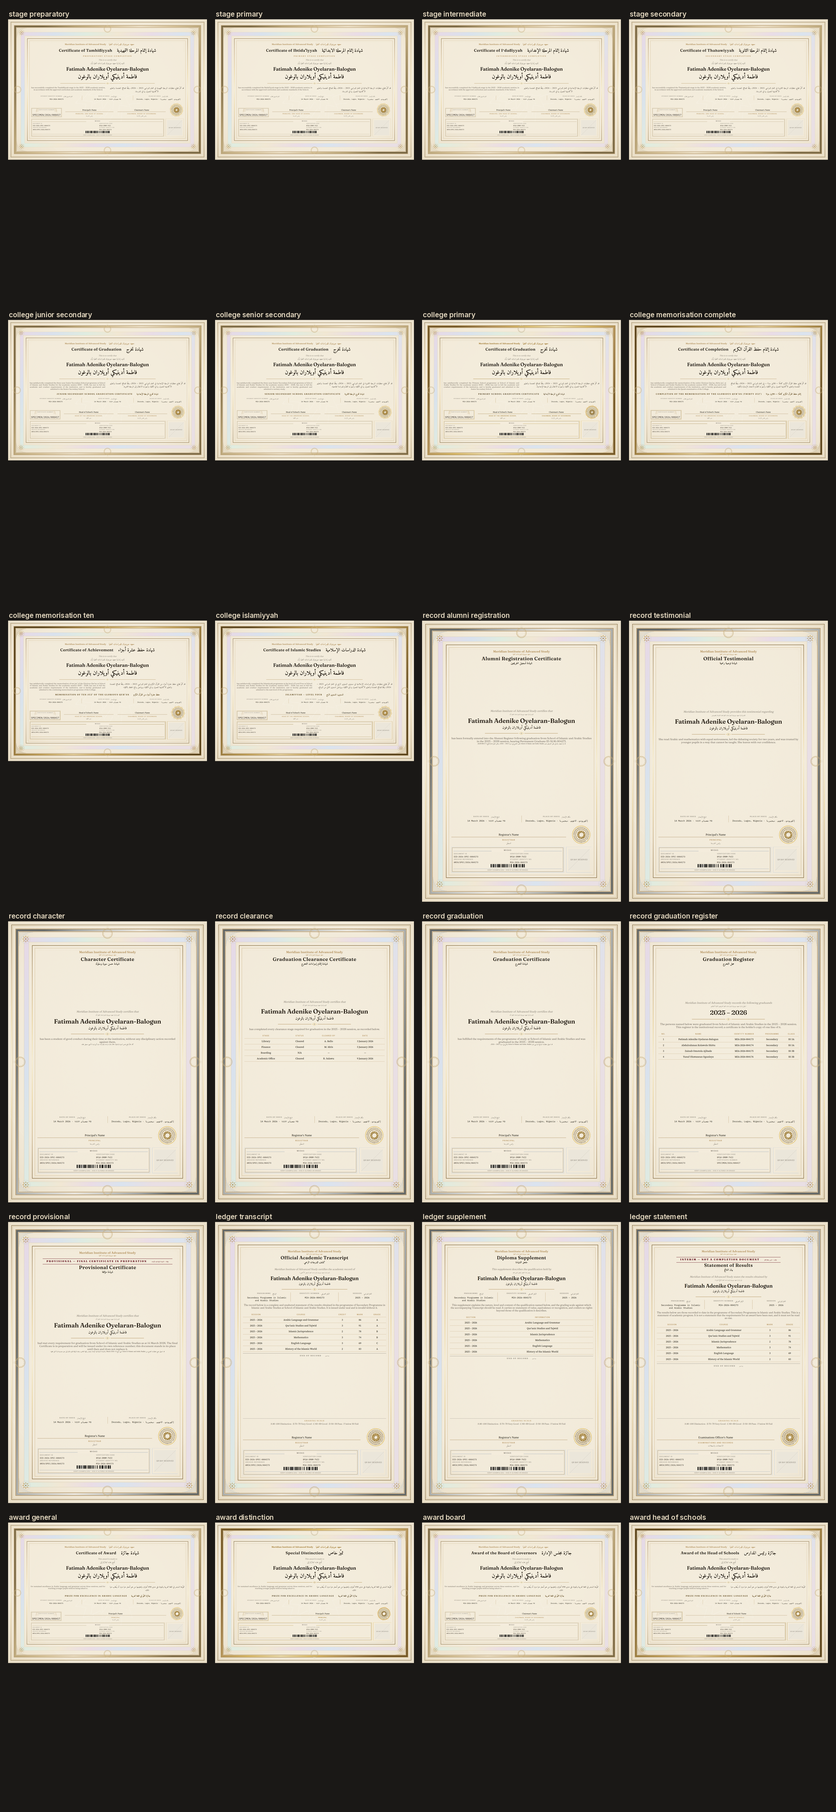
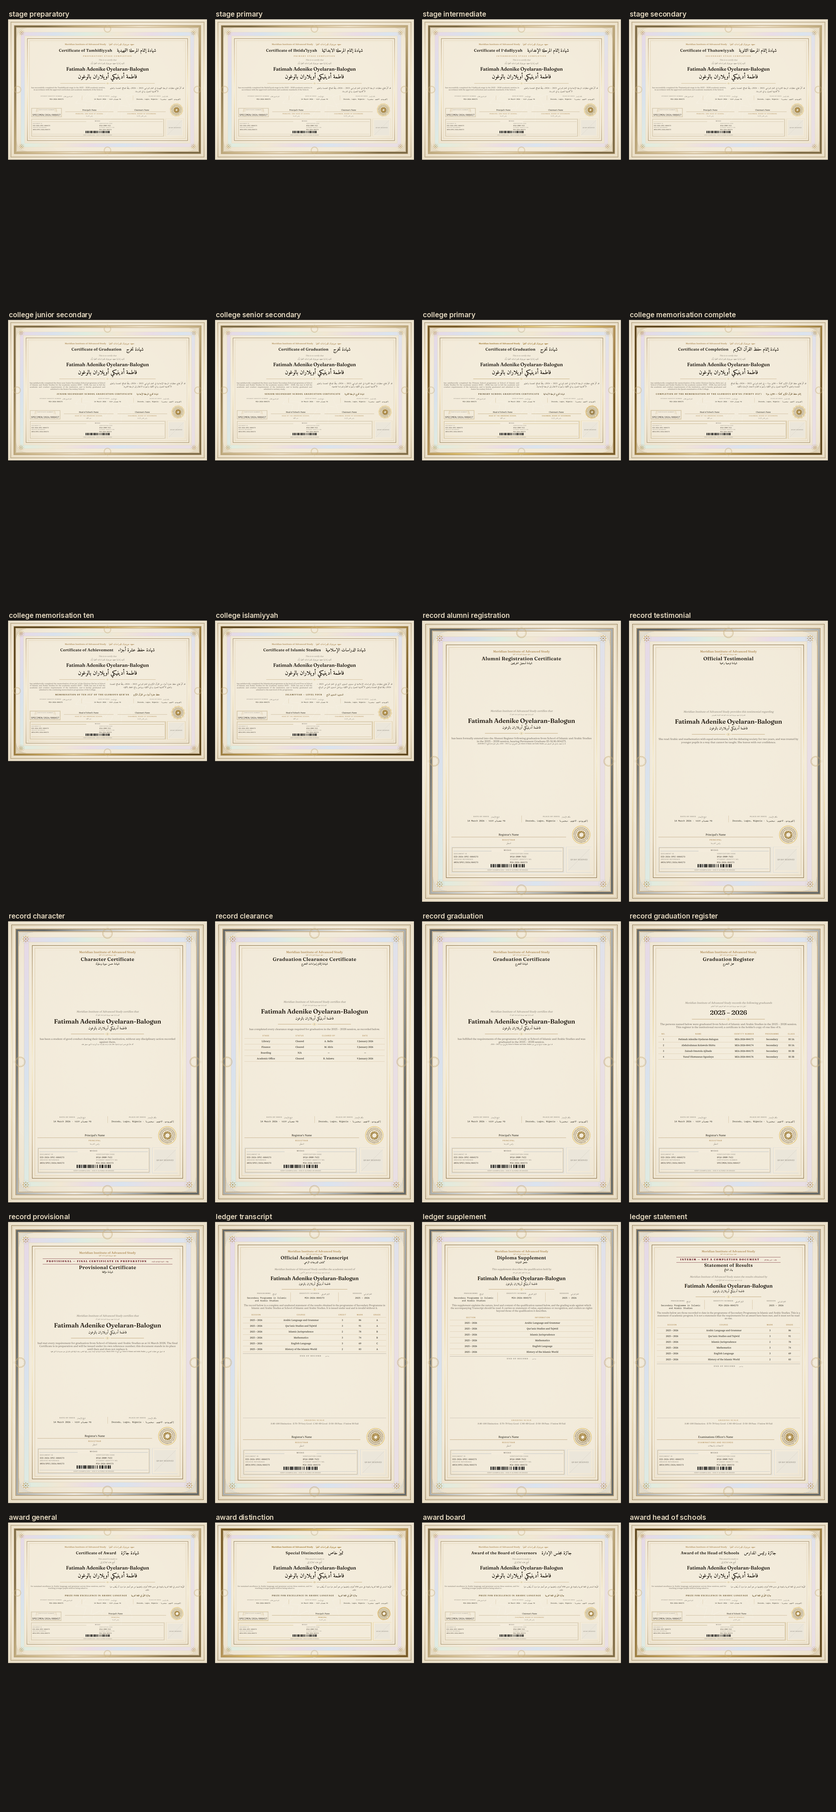
Look at what was built, and fix the five things looking found
Every composition had passed the machine audit. Four of them had never been
rendered and looked at, and looking found five defects the audit could not
see — plus one the audit could see and was not measuring.

The one the audit was not measuring: **horizontal overflow.** It compared
scrollHeight against clientHeight and the field box against the sheet, so a
portrait certificate whose bilingual title ran 90mm past the inner rule and
off the ceremonial field entirely reported zero. The column fitted; the row
inside it did not. Anything laid out as a row — a peer title, a two-column
citation, a particulars band — could walk sideways off the sheet without a
single number changing. Now measured, on HTML blocks only: walking into the
seal and the verification cartouche reported every sheet in the library as
40–75mm over, because SVG text legitimately exceeds its own viewBox.

What that found, and what looking found:

  1. --s never reached the stylesheet. Every fixed measure in the foot was
     written as calc(22mm * var(--s)) and the property was published on a
     div that no longer existed after a refactor, so the seal, the number
     cartouche and the signature blocks all fell back to the SVG default of
     300px — 79mm where 22 was intended — and the execution row overflowed
     on every sheet in the library.
  2. The foot did not grow with the sheet. Instruments have floors, not
     fixed sizes; left at 46 x 14mm an A3 sheet got an A4 cartouche marooned
[…]

diff --git a/apps/edtechx-api/app/modules/documents/library_sheet.py b/apps/edtechx-api/app/modules/documents/library_sheet.py
@@ -446,6 +446,15 @@ def _ceremonial(filled: Filled, *, architecture: Architecture, scheme, ink: str,
     template = filled.template
     measure = field.w
     mark = ""
+    # A portrait ceremonial sheet is a narrower measure, and a narrower measure
+    # wants smaller type: the same citation that runs in two columns across a
+    # landscape field stacks into two full-width paragraphs here, and at the
+    # landscape optical sizes that stack ran 11.6mm to 15.9mm past the field on
+    # every college sheet and 5.8mm on every award. This is not a fudge factor —
+    # it is the type size a 145mm measure asks for against a 228mm one, and the
+    # peak still sits at 8.5mm, twice its floor.
+    if field.h > field.w:
+        scale *= 0.93
     # Optical sizes, not chosen sizes. The field a full heritage border leaves
     # on an A4 landscape sheet is 221 × 134mm, and the composition below is
     # solved against that height rather than against a look — which is why the
@@ -455,8 +464,13 @@ def _ceremonial(filled: Filled, *, architecture: Architecture, scheme, ink: str,
         _lockup(architecture, filled, base=3.3 * scale, mark=mark),
         _banner(architecture, filled, scale=scale),
         '<div class="spacer"></div>',
+        # Inline only where there is width for it. Two long peer titles side
+        # by side need a landscape measure; on a portrait sheet the pair ran
+        # 90mm past the inner rule and off the ceremonial field entirely — the
+        # same rule that makes the citation run in columns on one and stack on
+        # the other, which the title had been exempt from for no reason.
         _runs(architecture, filled, template.title, cls="ttl", base=5.8 * scale,
-              inline=architecture.mode == "peer"),
+              inline=architecture.mode == "peer" and field.w > field.h),
         # The subtitle is the stage gloss on a stage sheet. A college sheet's
         # award is set once, in the conferred-award register below, and setting
         # it here as well cost 7.8mm of a 132mm field to say the same words
@@ -514,16 +528,21 @@ def _ceremonial(filled: Filled, *, architecture: Architecture, scheme, ink: str,
     # beneath it with the seal. This is the same rule that makes the citation
     # run in columns on one and stack on the other, applied to the foot.
     tall = field.h > field.w
+    # The instruments have *floors*, not fixed sizes. Left at 46 x 14mm an A3
+    # sheet gets an A4 cartouche marooned in the corner of a much larger field
+    # — which is what the first A3 proof showed, and it is the difference
+    # between a document composed for A3 and one enlarged onto it. So they grow
+    # with the sheet and stop at the floor on the way down, never above it.
     number = _number(filled, template, scheme=scheme, ink=ink,
-                     width=46, height=14, paper=paper)
+                     width=46 * scale, height=14 * scale, paper=paper)
     signatures = (
         '<div class="sigrow">'
         + _signature_block(filled, template, scheme=scheme, ink=ink,
                            assets=assets)
         + "</div>"
     )
-    seal = _seal(filled, template, scheme=scheme, ink=ink, radius=9.2,
-                 device=device)
+    seal = _seal(filled, template, scheme=scheme, ink=ink,
+                 radius=max(9.2, 9.2 * scale), device=device)
     execution = (
         f'<div class="numrow">{number}</div>'
         f'<div class="exec">{signatures}{seal}</div>'
@@ -534,7 +553,7 @@ def _ceremonial(filled: Filled, *, architecture: Architecture, scheme, ink: str,
         execution
         + '<div class="vrow">'
         + _verification(filled, template, scheme=scheme, ink=ink, width=measure,
-                        height=27, paper=paper)
+                        height=max(27.0, 27.0 * scale), paper=paper)
         + "</div>"
     )
     return "".join(parts) + foot
@@ -552,8 +571,9 @@ def _administrative(filled: Filled, *, architecture: Architecture, scheme,
     parts = [
         _lockup(architecture, filled, base=3.2 * scale, mark=""),
         _banner(architecture, filled, scale=scale),
-        _runs(architecture, filled, template.title, cls="ttl ttl--rec", base=5.2 * scale,
-              inline=architecture.mode == "peer"),
+        _runs(architecture, filled, template.title, cls="ttl ttl--rec",
+              base=5.2 * scale,
+              inline=architecture.mode == "peer" and field.w > field.h),
         # Uneven on purpose. Two equal spacers put the block on the sheet's
         # geometric centre, which the eye reads as low — the same reason a
         # picture hung at true centre looks like it has slipped. 0.62 above and
@@ -587,12 +607,12 @@ def _administrative(filled: Filled, *, architecture: Architecture, scheme,
         + _signature_block(filled, template, scheme=scheme, ink=ink,
                            assets=assets)
         + "</div>"
-        + _seal(filled, template, scheme=scheme, ink=ink, radius=11.0,
-                device=device)
+        + _seal(filled, template, scheme=scheme, ink=ink,
+                radius=max(11.0, 11.0 * scale), device=device)
         + "</div>"
         + '<div class="vrow">'
         + _verification(filled, template, scheme=scheme, ink=ink, width=measure,
-                        height=27, paper=paper)
+                        height=max(27.0, 27.0 * scale), paper=paper)
         + "</div>"
     )
     return "".join(parts) + foot
@@ -645,8 +665,15 @@ def _overprint(filled: Filled, *, width: float, height: float, scheme) -> str:
         f'<text x="{width / 2:.1f}"'
         f' y="{height / 2 + (index - (len(lines) - 1) / 2) * size * 1.5:.1f}"'
         f' text-anchor="middle" font-size="{size * (0.62 if index else 1):.2f}"'
-        f' font-family="Inter, sans-serif" font-weight="700"'
-        f' letter-spacing="{size * 0.06:.2f}" fill="{alert}"'
+        # The Arabic line is a *second* line in a second script, and an SVG
+        # text element does not inherit a direction from anywhere. Without
+        # this the run laid out left to right and the words came out in
+        # reverse order — legible enough to look intentional, which is worse
+        # than illegible.
+        + (' direction="rtl" font-family="Amiri, serif"' if index
+           else ' font-family="Inter, sans-serif"')
+        + f' font-weight="700"'
+        f' letter-spacing="{0 if index else size * 0.06:.2f}" fill="{alert}"'
         f' fill-opacity="0.22">{_escape(line)}</text>'
         for index, line in enumerate(lines)
     )
@@ -692,7 +719,8 @@ def _ledger(filled: Filled, *, architecture: Architecture, scheme, ink: str,
         _lockup(architecture, filled, base=3.0 * scale, mark=""),
         _banner(architecture, filled, scale=scale),
         _runs(architecture, filled, template.title, cls="ttl ttl--rec",
-              base=4.8 * scale, inline=architecture.mode == "peer"),
+              base=4.8 * scale,
+              inline=architecture.mode == "peer" and field.w > field.h),
         '<div class="hairspace"></div>',
         _runs(architecture, filled, template.lede, cls="lede",
               base=2.7 * scale),
@@ -738,12 +766,12 @@ def _ledger(filled: Filled, *, architecture: Architecture, scheme, ink: str,
         + _signature_block(filled, template, scheme=scheme, ink=ink,
                            assets=assets)
         + "</div>"
-        + _seal(filled, template, scheme=scheme, ink=ink, radius=10.0,
-                device=device)
+        + _seal(filled, template, scheme=scheme, ink=ink,
+                radius=max(10.0, 10.0 * scale), device=device)
         + "</div>"
         + '<div class="vrow">'
         + _verification(filled, template, scheme=scheme, ink=ink, width=measure,
-                        height=27, paper=paper)
+                        height=max(27.0, 27.0 * scale), paper=paper)
         + "</div>"
     )
     return "".join(parts) + foot
@@ -770,8 +798,17 @@ html, body { margin: 0; padding: 0; background: #221F1B; }
 .lockup--stack .lk { flex: none; }
 .ttl { font-weight: 600; letter-spacing: 0.03em; flex: none; }
 .ttl--arabic { letter-spacing: 0; font-weight: 700; }
-.ttl-row { display: flex; gap: 7mm; align-items: baseline; justify-content: center;
-  flex: none; }
+/* An inline peer row wraps rather than pushes. Two titles set side by side
+   are 0.26mm too wide for an A4 landscape field with a long institution name,
+   and 8mm too wide on portrait — and a row that cannot wrap answers that by
+   walking off the ceremonial field. Wrapping degrades it to the stacked
+   arrangement, which is the same thing the composition does deliberately on a
+   tall sheet, rather than to a defect. */
+.ttl-row, .awd-row, .bnr-row, .endr-row {
+  display: flex; align-items: baseline; justify-content: center;
+  flex: none; flex-wrap: wrap; max-width: 100%; }
+.ttl-row > *, .awd-row > *, .bnr-row > *, .endr-row > * { min-width: 0; }
+.ttl-row { gap: 7mm; }
 .sub { font-family: 'Inter', sans-serif; text-transform: uppercase;
   letter-spacing: 0.30em; font-weight: 600; flex: none; margin-top: 1.6mm; }
 .lede { font-style: italic; flex: none; margin-top: 1.0mm; }
@@ -782,7 +819,8 @@ html, body { margin: 0; padding: 0; background: #221F1B; }
 .name--arabic { letter-spacing: 0; font-weight: 700; }
 .namerule { display: block; flex: none; height: 3mm; margin-top: 1.6mm; }
 .cite { display: flex; gap: 7mm; justify-content: center; align-items: flex-start;
-  width: 100%; flex: none; margin-top: 2.0mm; }
+  width: 100%; max-width: 100%; flex: none; margin-top: 2.0mm; }
+.cite > * { min-width: 0; }
 .cite .stmt { flex: 1 1 0; text-align: justify; text-align-last: center; }
 .cite--rec { display: block; }
 .cite--rec .stmt { text-align: center; }
@@ -790,21 +828,22 @@ html, body { margin: 0; padding: 0; background: #221F1B; }
 .awd { font-family: 'Inter', sans-serif; text-transform: uppercase;
   letter-spacing: 0.20em; font-weight: 600; }
 .awd--arabic { text-transform: none; letter-spacing: 0; font-family: 'Amiri', serif; }
-.awd-row { display: flex; gap: 6mm; align-items: baseline; justify-content: center; }
+.awd-row { gap: 6mm; }
 .band { display: flex; align-items: stretch; justify-content: space-between;
   width: 100%; flex: none; margin-top: 1.8mm; }
 .bcell { flex: 1 1 0; padding: 0 3mm; }
 .bdiv { flex: none; width: 0.2mm; align-self: stretch; }
 .bhead { display: flex; gap: 2mm; justify-content: center; }
-.bk { font-family: 'Inter', sans-serif; font-size: 1.7mm; letter-spacing: 0.16em;
-  text-transform: uppercase; font-weight: 600; }
+.bk { font-family: 'Inter', sans-serif; font-size: calc(1.7mm * var(--s));
+  letter-spacing: 0.16em; text-transform: uppercase; font-weight: 600; }
 .bk--arabic { text-transform: none; letter-spacing: 0; font-family: 'Amiri', serif;
-  font-size: 2.0mm; }
-.bval { font-family: 'IBM Plex Mono', monospace; font-size: 2.3mm;
+  font-size: calc(2.0mm * var(--s)); }
+.bval { font-family: 'IBM Plex Mono', monospace; font-size: calc(2.3mm * var(--s));
   margin-top: 0.6mm; }
 .rows { width: 100%; border-collapse: collapse; flex: none; margin-top: 3mm;
-  font-family: 'Source Serif 4', serif; font-size: 2.5mm; }
-.rows th { font-family: 'Inter', sans-serif; font-size: 1.8mm; font-weight: 600;
+  font-family: 'Source Serif 4', serif; font-size: calc(2.5mm * var(--s)); }
+.rows th { font-family: 'Inter', sans-serif; font-size: calc(1.8mm * var(--s));
+  font-weight: 600;
   letter-spacing: 0.16em; text-transform: uppercase; padding: 1.4mm 2mm;
   border-bottom: 0.28mm solid var(--rule); }
 .rows td { padding: 1.2mm 2mm; border-bottom: 0.10mm solid var(--rule); }
@@ -813,18 +852,28 @@ html, body { margin: 0; padding: 0; background: #221F1B; }
 .exec--rec { justify-content: center; }
 .sigrow { flex: 1 1 auto; display: flex; align-items: flex-start; gap: 6mm; }
 .sig { flex: 1 1 0; text-align: center; }
-.sig .ink { display: block; width: 100%; height: 6.6mm; margin-bottom: -1.0mm;
+/* Every fixed measure in the foot is expressed against --s, the sheet's own
+   type scale, so a signature block on A3 is an A3 signature block rather than
+   an A4 one sitting in a larger field. --s is floored at 1 for these: the
+   instruments may grow with the sheet and may not shrink below the size at
+   which a name stops being readable and a rule stops being a rule. */
+.sig .ink { display: block; width: 100%; height: calc(6.6mm * var(--s));
+  margin-bottom: calc(-1.0mm * var(--s));
   object-fit: contain; object-position: center bottom; }
-.sig .nm { font-size: 3.1mm; height: 5.2mm; display: flex; align-items: flex-end;
+.sig .nm { font-size: calc(3.1mm * var(--s)); height: calc(5.2mm * var(--s));
+  display: flex; align-items: flex-end;
   justify-content: center; white-space: nowrap; }
-.sig .nm-ar { font-family: 'Amiri', serif; font-size: 3.0mm; margin-bottom: 0.4mm; }
-.sig .srule { display: block; width: 100%; height: 1.6mm; }
+.sig .nm-ar { font-family: 'Amiri', serif; font-size: calc(3.0mm * var(--s));
+  margin-bottom: 0.4mm; }
+.sig .srule { display: block; width: 100%; height: calc(1.6mm * var(--s)); }
 .sig .of { font-family: 'Inter', sans-serif; text-transform: uppercase;
-  font-weight: 600; font-size: 1.9mm; letter-spacing: 0.18em; margin-top: 1.1mm; }
-.sig .of-ar { font-family: 'Amiri', serif; font-size: 2.2mm; margin-top: 0.4mm; }
-.sealbox { flex: none; width: 22mm; }
+  font-weight: 600; font-size: calc(1.9mm * var(--s)); letter-spacing: 0.18em;
+  margin-top: calc(1.1mm * var(--s)); }
+.sig .of-ar { font-family: 'Amiri', serif; font-size: calc(2.2mm * var(--s));
+  margin-top: 0.4mm; }
+.sealbox { flex: none; width: calc(22mm * var(--s)); }
 .sealbox svg, .nbox svg, .vbox svg { display: block; width: 100%; height: auto; }
-.nbox { flex: none; width: 46mm; }
+.nbox { flex: none; width: calc(46mm * var(--s)); }
 .vrow { width: 100%; flex: none; margin-top: 2.0mm; }
 .endrule { flex: none; width: 100%; margin-top: 1.6mm; padding-top: 1.2mm;
   border-top: 0.24mm solid; display: flex; justify-content: center; }
@@ -832,7 +881,7 @@ html, body { margin: 0; padding: 0; background: #221F1B; }
   font-weight: 600; letter-spacing: 0.26em; }
 .endr--arabic { text-transform: none; letter-spacing: 0;
   font-family: 'Amiri', serif; }
-.endr-row { display: flex; gap: 4mm; align-items: baseline; }
+.endr-row { gap: 4mm; }
 .numrow { flex: none; margin-top: 2.0mm; display: flex; justify-content: center; }
 .hairspace { flex: none; height: 2.4mm; }
 /* The permanent banner sits in the flow above the title, where it is read
@@ -843,7 +892,7 @@ html, body { margin: 0; padding: 0; background: #221F1B; }
   font-weight: 700; letter-spacing: 0.24em; }
 .bnr--arabic { text-transform: none; letter-spacing: 0;
   font-family: 'Amiri', serif; }
-.bnr-row { display: flex; gap: 5mm; align-items: baseline; justify-content: center; }
+.bnr-row { gap: 5mm; }
 /* Over the ground, under nothing. A copy notice that content can obscure is a
    copy notice a forger can obscure. */
 .overprint { position: absolute; inset: 0; pointer-events: none; z-index: 3; }
@@ -965,7 +1014,12 @@ def sheet_for_template(filled: Filled, *, sheet: str | None = None,
         f'background:{paper}">'
         f'<div class="plate">{ground.svg}</div>'
         + _overprint(filled, width=width, height=height, scheme=scheme)
-        + f'<div class="field" style="left:{field.x:.2f}mm;top:{field.y:.2f}mm;'
+        # --s is the sheet's own type scale, published once here and spent by
+        # every fixed measure in the foot. Floored at 1: the instruments may
+        # grow with the sheet and may not shrink below the size at which a name
+        # stops being readable and a rule stops being a rule.
+        + f'<div class="field" style="--s:{max(1.0, fit.type_scale):.3f};'
+        f'left:{field.x:.2f}mm;top:{field.y:.2f}mm;'
         f'width:{field.w:.2f}mm;height:{field.h:.2f}mm">{body}</div>'
         "</div>"
     )

diff --git a/tools/design/library.py b/tools/design/library.py
@@ -46,6 +46,20 @@ sys.path.insert(0, str(ROOT))
 from tools.design.render import contact, shoot
 
 OUT = ROOT / "docs" / "edtechx" / "design" / "library"
+
+#: One CSS pixel, in millimetres. The measurement floor, and the tolerance.
+#:
+#: `scrollWidth` and `clientWidth` are integers in CSS pixels, so an element
+#: whose width is fractional reports one pixel of overflow that does not exist.
+#: Twenty-five compositions sat at exactly 0.26mm — 25.4/96 to two places — and
+#: chasing it would have meant tuning a design against a rounding artefact.
+#:
+#: This is not a loosened standard. It is declining to assert a precision the
+#: instrument does not have: below one pixel the browser cannot tell a real
+#: overflow from a rounded one, so a claim either way would be invented. At
+#: 600 DPI one CSS pixel is six device pixels of a 0.07mm hairline — visible if
+#: it were real, and it is not.
+_PIXEL = 25.4 / 96 + 0.005
 CHROME = "/opt/pw-browsers/chromium-1194/chrome-linux/chrome"
 
 #: A specimen institution. Every value is obviously a specimen — nobody should
@@ -213,9 +227,16 @@ def size_matrix() -> tuple[list[pathlib.Path], list[str]]:
 def audit(pages: list[pathlib.Path]) -> list[tuple[str, float, float]]:
     """Measure every sheet. Returns (key, content overflow mm, field bleed mm).
 
-    Both numbers must be zero. `content` is the flow above the field's own
-    height; `bleed` is the field's own box crossing the ground's innermost
-    rule. A composition can pass the first and fail the second, which is the
+    Both numbers must be zero, and `content` is now the worse of two
+    directions rather than just height. The vertical-only version passed a
+    portrait certificate whose bilingual title ran 90mm past the inner rule and
+    off the ceremonial field entirely: the column fitted, and the row inside it
+    did not. Anything laid out as a row — a peer title, a two-column citation,
+    a particulars band — can overflow sideways while the column it sits in
+    reports no overflow at all.
+
+    `bleed` is the field's own box crossing the ground's innermost rule. A
+    composition can pass both content checks and fail this one, which is the
     case that ships.
     """
     from playwright.sync_api import sync_playwright
@@ -237,7 +258,21 @@ def audit(pages: list[pathlib.Path]) -> list[tuple[str, float, float]]:
                 " const bleed = Math.max(0,"
                 "   sr.top - fr.top, sr.left - fr.left,"
                 "   fr.bottom - sr.bottom, fr.right - sr.right);"
-                " return [f.scrollHeight - f.clientHeight, bleed];"
+                # HTML blocks only. An SVG child legitimately exceeds its
+                # own viewBox — text does not clip to it — and walking into
+                # the seal and the verification cartouche reported every sheet
+                # in the library as 40–75mm over. What is being asked is
+                # whether a *laid-out block* left the field, and an SVG is one
+                # block however its internals are drawn.
+                " let side = f.scrollWidth - f.clientWidth;"
+                " for (const el of f.querySelectorAll('div, table, p, img')) {"
+                "   if (el.closest('svg')) continue;"
+                "   const r = el.getBoundingClientRect();"
+                "   if (!r.width) continue;"
+                "   side = Math.max(side, fr.left - r.left, r.right - fr.right);"
+                " }"
+                " return ["
+                "   Math.max(f.scrollHeight - f.clientHeight, side), bleed];"
                 "}"
             )
             results.append((
@@ -362,7 +397,7 @@ def report(label: str, pages: list[pathlib.Path], failures: list[str], *,
     if not quiet:
         print(f"\n{label}")
     for key, over, bleed in audit(pages):
-        ok = over <= 0.05 and bleed <= 0.05
+        ok = over <= _PIXEL and bleed <= _PIXEL
         if not ok:
             failures.append(f"{label}/{key}: {over:.2f}mm over, "
                             f"{bleed:.2f}mm outside the field")

diff --git a/apps/edtechx-api/app/modules/documents/library.py b/apps/edtechx-api/app/modules/documents/library.py
@@ -843,6 +843,7 @@ def _record_template(*, key: str, name: str, name_ar: str, level: int,
 def _ledger_template(*, key: str, name: str, name_ar: str, code: str,
                      lede_en: str, lede_ar: str, body_en: str, body_ar: str,
                      columns: tuple[Wording, ...], rows_note: str,
+                     rows_default: str = "",
                      extra: tuple[Slot, ...] = (), level: int = 3,
                      banner: Wording | None = None,
                      signatory: tuple[str, str, str] = (
@@ -867,7 +868,7 @@ def _ledger_template(*, key: str, name: str, name_ar: str, code: str,
             *_institution(), *_recipient(), *_particulars(), *_credential(),
             Slot("programme", "Programme of study", "البرنامج الدراسي", "text",
                  default="Programme Name"),
-            Slot("rows", "Rows", "الصفوف", "table", default="",
+            Slot("rows", "Rows", "الصفوف", "table", default=rows_default,
                  note=rows_note),
             Slot("grading_key", "Grading scale", "سلّم الدرجات", "paragraph",
                  default="A 80–100 Distinction · B 70–79 Very Good · "
@@ -1405,6 +1406,29 @@ def _build() -> dict[str, Template]:
                 "results, its function, additional information, the "
                 "certification of the supplement itself, and a factual "
                 "description of the institution's own education system."
+            ),
+            # The eight sections are the document, so they are the default
+            # rather than an empty table an institution has to know to fill.
+            # A supplement shipped with a course list in it — which is what the
+            # first proof rendered, because it inherited the transcript's rows —
+            # is a supplement that explains nothing.
+            rows_default=(
+                "1. The holder|Named above, with the identity number recorded "
+                "against this institution's own register.\n"
+                "2. The qualification|As named on the accompanying "
+                "certificate, awarded by this institution in its own right.\n"
+                "3. Level|The stage of study the qualification completes "
+                "within this institution's published progression.\n"
+                "4. Programme and results|Set out in full on the accompanying "
+                "Transcript, which this supplement does not repeat.\n"
+                "5. Function|What the qualification entitles the holder to "
+                "within this institution: admission to the next stage.\n"
+                "6. Additional information|Any distinction, medium of "
+                "instruction, or attendance mode the institution records.\n"
+                "7. Certification|Signed and sealed below by the office named, "
+                "and verifiable at the address printed on this sheet.\n"
+                "8. The education system|The institution's own curriculum "
+                "structure and the grading scale printed below."
             ),
             level=2,
             notes=(
